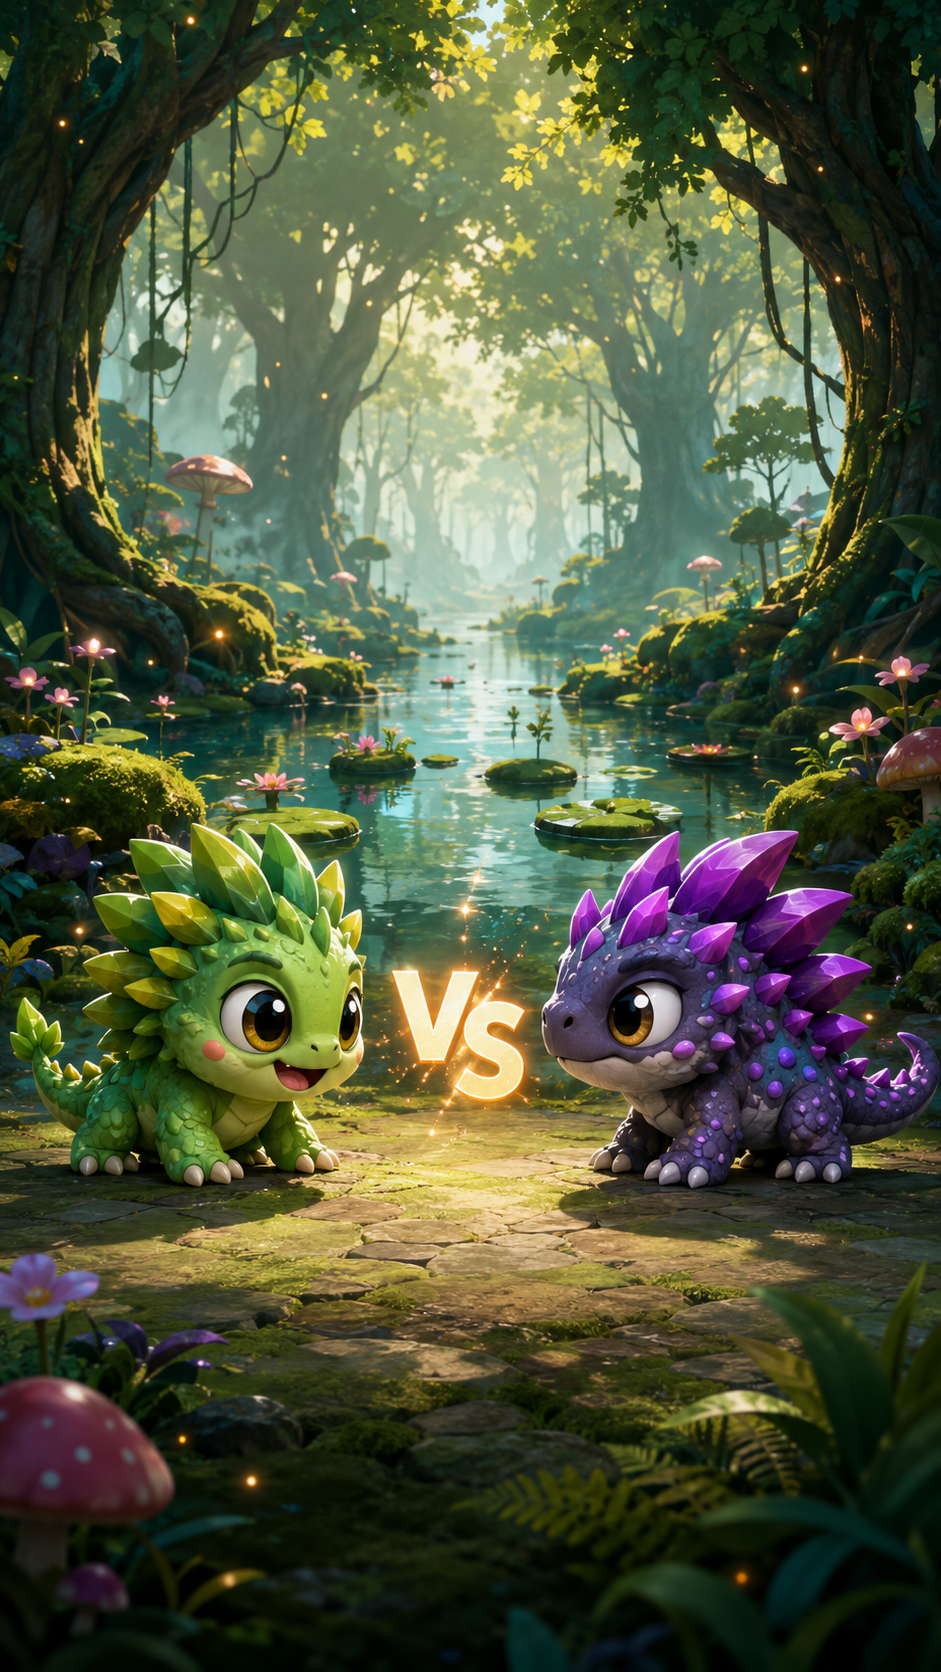
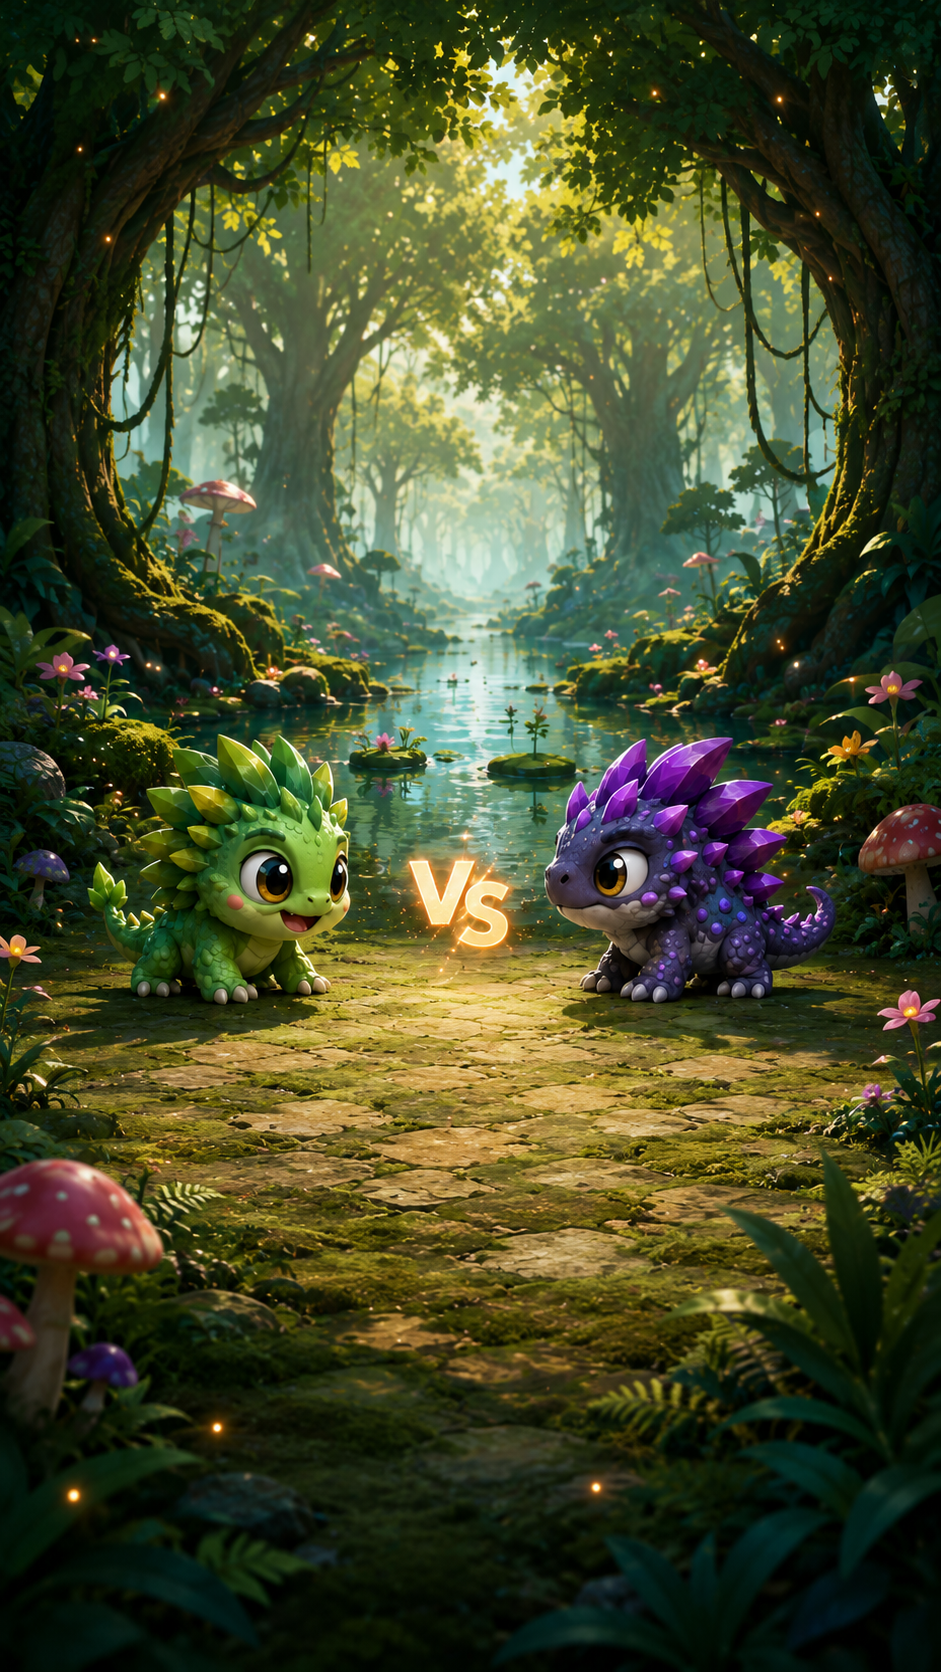
style: enhance GeneSelectionScreenV2 and GeneSelectorPreviewV2 for improved layout and usability

diff --git a/src/components/game-v2/GeneSelectionScreenV2.css b/src/components/game-v2/GeneSelectionScreenV2.css
@@ -193,49 +193,67 @@
   flex: 0 0 auto;
   display: flex;
   flex-direction: column;
-  gap: 7px;
+  gap: 12px;
   margin-inline: auto;
-  padding: 10px 9px calc(env(safe-area-inset-bottom, 0px) + 10px);
-  border: 1px solid rgba(255, 255, 255, 0.5);
-  border-radius: 24px 24px 0 0;
-  background: linear-gradient(180deg, rgba(247, 240, 220, 0.76), rgba(247, 240, 220, 0.9));
+  padding: 0 0 calc(env(safe-area-inset-bottom, 0px) + 10px);
   color: var(--gs-cream-text);
-  box-shadow: 0 -8px 26px rgba(0, 0, 0, 0.24), inset 0 1px 0 #fff;
+}
+
+.gene-selector-panel,
+.action-panel-shell {
+  min-width: 0;
+  border: 1px solid rgba(255, 255, 255, 0.55);
+  border-radius: 24px;
+  background: linear-gradient(180deg, rgba(247, 240, 220, 0.82), rgba(247, 240, 220, 0.94));
+  box-shadow: 0 8px 24px rgba(0, 0, 0, 0.22), inset 0 1px 0 #fff;
   backdrop-filter: blur(3px);
 }
 
+.gene-selector-panel { padding: 10px 9px 8px; }
+.action-panel-shell { padding: 8px; }
+
 /* Gene selector */
-.selector-v2 { min-width: 0; display: flex; flex-direction: column; gap: 7px; }
-.selector-v2-header { min-width: 0; display: flex; align-items: center; justify-content: space-between; gap: 8px; padding: 0 3px; }
+.selector-v2 { min-width: 0; display: flex; flex-direction: column; gap: 6px; }
+.selector-v2-header { min-width: 0; display: flex; align-items: center; justify-content: center; gap: 14px; padding: 0 3px; }
+.selector-v2-header::before, .selector-v2-header::after { content: '❧'; color: #8ab851; font-size: 1.05rem; line-height: 1; }
+.selector-v2-header::after { transform: scaleX(-1); }
 .selector-v2-header strong { min-width: 0; overflow: hidden; color: #3e4033; font-size: 0.78rem; letter-spacing: 0.08em; text-overflow: ellipsis; white-space: nowrap; }
-.selector-v2-header span { min-width: 46px; padding: 4px 8px; border: 1px solid rgba(90, 95, 79, 0.2); border-radius: 999px; background: rgba(255, 255, 255, 0.52); color: var(--gs-cream-muted); font-size: 0.66rem; text-align: center; }
-.selector-v2-carousel { min-width: 0; display: flex; align-items: center; gap: 4px; }
-.selector-v2-arrow { appearance: none; width: 28px; height: 44px; flex: 0 0 28px; display: grid; place-items: center; border: 1px solid rgba(90, 95, 79, 0.3); border-radius: 12px; background: #fff9eb; color: #3e4033; font-size: 1.55rem; line-height: 1; cursor: pointer; }
+.selector-v2-sr-only { position: absolute; width: 1px; height: 1px; padding: 0; margin: -1px; overflow: hidden; clip: rect(0, 0, 0, 0); white-space: nowrap; border: 0; }
+.selector-v2-carousel { min-width: 0; display: flex; align-items: center; gap: 5px; }
+.selector-v2-arrow { appearance: none; width: 30px; height: 52px; flex: 0 0 30px; display: grid; place-items: center; border: 2px solid rgba(255, 255, 255, 0.7); border-radius: 999px; background: linear-gradient(180deg, #55a9ed, #2470bd); color: #fff; font-size: 1.75rem; font-weight: 800; line-height: 1; cursor: pointer; box-shadow: 0 4px 10px rgba(42, 84, 112, 0.25), inset 0 1px 0 rgba(255, 255, 255, 0.65); }
+.selector-v2-arrow--next { background: linear-gradient(180deg, #c47af0, #7b35c5); box-shadow: 0 4px 10px rgba(92, 46, 137, 0.25), inset 0 1px 0 rgba(255, 255, 255, 0.65); }
 .selector-v2-arrow:disabled { opacity: 0.45; cursor: not-allowed; }
 .selector-v2-arrow:active:not(:disabled) { transform: scale(0.95); }
-.selector-v2-rail { min-width: 0; flex: 1 1 auto; display: flex; align-items: stretch; justify-content: center; gap: 5px; overflow: hidden; padding: 4px 0; }
-.selector-v2-card { appearance: none; width: clamp(64px, 21vw, 76px); min-width: 0; min-height: 122px; flex: 0 1 auto; display: flex; flex-direction: column; align-items: center; gap: 3px; padding: 7px 5px; border: 1px solid rgba(90, 95, 79, 0.2); border-radius: 16px; background: linear-gradient(180deg, rgba(255, 253, 245, 0.86), rgba(241, 234, 215, 0.82)); color: #2b2d25; text-align: center; cursor: pointer; opacity: 0.62; transform: scale(0.94); transition: transform 160ms ease, opacity 160ms ease, box-shadow 160ms ease, border-color 160ms ease; }
-.selector-v2-card.is-side { opacity: 0.72; transform: scale(0.91); }
-.selector-v2-card.is-selected { width: clamp(82px, 26vw, 98px); min-height: 132px; opacity: 1; transform: scale(1.02); border-color: rgba(86, 192, 35, 0.78); background: linear-gradient(180deg, rgba(255, 254, 247, 0.92), rgba(237, 248, 217, 0.88)); box-shadow: 0 0 0 2px rgba(111, 216, 35, 0.18), 0 8px 18px rgba(61, 89, 25, 0.2); }
-.selector-v2-card.is-cooldown { border-style: dashed; }
+.selector-v2-rail { min-width: 0; flex: 1 1 auto; display: grid; grid-template-columns: repeat(5, minmax(0, 1fr)); align-items: stretch; gap: 4px; overflow: hidden; padding: 5px 0; }
+.selector-v2-card { appearance: none; width: 100%; min-width: 0; height: 142px; min-height: 142px; display: flex; flex-direction: column; align-items: center; gap: 3px; padding: 7px 3px 6px; border: 1px solid color-mix(in srgb, var(--gene-accent) 34%, #8b866f); border-radius: 15px; background: linear-gradient(180deg, #fffaf0, #eee3c9); color: #2b2d25; text-align: center; cursor: pointer; opacity: 0.78; transform: scale(0.96); transition: transform 160ms ease, opacity 160ms ease, box-shadow 160ms ease, border-color 160ms ease; }
+.selector-v2-card.is-side { opacity: 0.82; transform: scale(0.96); }
+.selector-v2-card.is-selected { opacity: 1; transform: translateY(-3px) scale(1.03); border: 2px solid var(--gene-accent); background: linear-gradient(180deg, color-mix(in srgb, var(--gene-accent) 12%, #fffdf5), color-mix(in srgb, var(--gene-accent) 24%, #f4ecd8)); box-shadow: 0 0 0 2px color-mix(in srgb, var(--gene-accent) 26%, transparent), 0 8px 16px rgba(61, 89, 25, 0.24); }
+.selector-v2-card.is-cooldown { border-style: dashed; filter: saturate(0.65); }
 .selector-v2-card:focus-visible { outline: 2px solid #3dbf8e; outline-offset: 2px; }
-.selector-v2-icon { position: relative; width: 40px; height: 40px; flex: 0 0 auto; overflow: hidden; display: grid; place-items: center; border: 1px solid rgba(90, 95, 79, 0.22); border-radius: 12px; background: rgba(253, 248, 234, 0.76); }
-.selector-v2-card.is-selected .selector-v2-icon { width: 48px; height: 48px; }
+.selector-v2-card--strength { --gene-accent: #e14e2e; }
+.selector-v2-card--resistance { --gene-accent: #2879cf; }
+.selector-v2-card--agility { --gene-accent: #66ba29; }
+.selector-v2-card--perception { --gene-accent: #8845c7; }
+.selector-v2-card--metabolism { --gene-accent: #ec9416; }
+.selector-v2-card--adaptation { --gene-accent: #3c9b8d; }
+.selector-v2-card--grip-claws { --gene-accent: #b76d36; }
+.selector-v2-card--camouflage { --gene-accent: #5e9a4a; }
+.selector-v2-card--webbed-limbs { --gene-accent: #398fc2; }
+.selector-v2-card--fat-reserves { --gene-accent: #d38b39; }
+.selector-v2-icon { position: relative; width: 44px; height: 44px; flex: 0 0 auto; overflow: hidden; display: grid; place-items: center; border: 2px solid color-mix(in srgb, var(--gene-accent) 58%, white); border-radius: 13px; background: color-mix(in srgb, var(--gene-accent) 13%, #fffaf0); }
+.selector-v2-card.is-selected .selector-v2-icon { width: 52px; height: 52px; }
 .selector-v2-icon img { position: absolute; inset: 0; width: 100%; height: 100%; object-fit: contain; }
-.selector-v2-icon span { color: #4d503f; font-size: 0.6rem; letter-spacing: 0.06em; }
-.selector-v2-name { display: -webkit-box; overflow: hidden; max-width: 100%; color: #2b2e22; font-size: 0.7rem; line-height: 1.08; -webkit-box-orient: vertical; -webkit-line-clamp: 2; }
-.selector-v2-card.is-selected .selector-v2-name { font-size: 0.78rem; }
-.selector-v2-level { color: #5d5a4b; font-size: 0.62rem; white-space: nowrap; }
-.selector-v2-affinity, .selector-v2-cooldown { max-width: 100%; overflow: hidden; padding: 2px 6px; border: 1px solid transparent; border-radius: 999px; font-size: 0.54rem; font-weight: 700; text-overflow: ellipsis; white-space: nowrap; }
-.selector-v2-affinity { margin-top: auto; }
-.selector-v2-affinity.is-low, .selector-v2-cooldown { color: #9b4327; background: #ffe7de; border-color: #edac92; }
-.selector-v2-affinity.is-medium { color: #775725; background: #fcf0d4; border-color: #e3c983; }
-.selector-v2-affinity.is-high { color: #256655; background: #def6ea; border-color: #94d9bd; }
-.selector-v2-affinity.is-excellent { color: #2f6e1f; background: #ebf8dc; border-color: #a8df78; }
-.selector-v2-summary { min-width: 0; min-height: 24px; display: flex; flex-direction: column; align-items: center; justify-content: center; gap: 1px; padding: 1px 0; text-align: center; }
-.selector-v2-summary strong, .selector-v2-summary span { display: -webkit-box; overflow: hidden; max-width: 100%; -webkit-box-orient: vertical; -webkit-line-clamp: 2; }
-.selector-v2-summary strong { color: #242520; font-size: 0.78rem; }
-.selector-v2-summary span { color: var(--gs-cream-muted); font-size: 0.62rem; }
+.selector-v2-icon span { color: color-mix(in srgb, var(--gene-accent) 70%, #34372d); font-size: 0.6rem; letter-spacing: 0.06em; }
+.selector-v2-name { display: -webkit-box; overflow: hidden; max-width: 100%; color: #2b2e22; font-size: 0.66rem; line-height: 1.08; -webkit-box-orient: vertical; -webkit-line-clamp: 2; }
+.selector-v2-card.is-selected .selector-v2-name { font-size: 0.74rem; }
+.selector-v2-level { color: #5d5a4b; font-size: 0.61rem; font-weight: 700; white-space: nowrap; }
+.selector-v2-affinity, .selector-v2-cooldown { max-width: 100%; overflow: hidden; padding: 3px 5px; border: 1px solid transparent; border-radius: 999px; font-size: 0.5rem; font-weight: 700; text-overflow: ellipsis; white-space: nowrap; }
+.selector-v2-affinity { margin-top: auto; color: color-mix(in srgb, var(--gene-accent) 78%, #26301d); background: color-mix(in srgb, var(--gene-accent) 20%, #fffaf0); border-color: color-mix(in srgb, var(--gene-accent) 48%, white); }
+.selector-v2-cooldown { color: #9b4327; background: #ffe7de; border-color: #edac92; }
+.selector-v2-dots { min-height: 12px; display: flex; align-items: center; justify-content: center; gap: 6px; }
+.selector-v2-dot { appearance: none; width: 9px; height: 9px; padding: 0; border: 1px solid rgba(93, 108, 67, 0.48); border-radius: 999px; background: rgba(255, 255, 255, 0.72); cursor: pointer; transition: transform 160ms ease, background 160ms ease, border-color 160ms ease; }
+.selector-v2-dot.is-active { width: 12px; height: 12px; border: 2px solid #fff; background: #7acb2c; box-shadow: 0 0 0 1px #6e9e31; transform: scale(1.05); }
+.selector-v2-dot:disabled { cursor: not-allowed; opacity: 0.55; }
 
 /* Actions and states */
 .action-v2-panel { min-width: 0; display: grid; grid-template-columns: repeat(2, minmax(0, 1fr)); gap: 8px; }
@@ -278,15 +296,14 @@
   .event-v2-title { font-size: 0.84rem; }
   .event-v2-description { font-size: 0.64rem; }
   .screen-middle { flex-basis: 112px; min-height: 112px; }
-  .bottom-sheet { gap: 6px; padding-top: 8px; padding-bottom: calc(env(safe-area-inset-bottom, 0px) + 9px); }
+  .bottom-sheet { gap: 10px; padding-top: 4px; padding-bottom: calc(env(safe-area-inset-bottom, 0px) + 9px); }
   .selector-v2 { gap: 4px; }
-  .selector-v2-card { min-height: 108px; padding-block: 6px; }
-  .selector-v2-card.is-selected { min-height: 118px; }
+  .selector-v2-card { height: 128px; min-height: 128px; padding-block: 6px; }
+  .selector-v2-card.is-selected { height: 128px; min-height: 128px; }
   .selector-v2-icon { width: 38px; height: 38px; }
-  .selector-v2-card.is-selected .selector-v2-icon { width: 44px; height: 44px; }
+  .selector-v2-card.is-selected .selector-v2-icon { width: 46px; height: 46px; }
   .selector-v2-name, .selector-v2-card.is-selected .selector-v2-name { font-size: 0.65rem; }
   .selector-v2-affinity, .selector-v2-cooldown { font-size: 0.5rem; }
-  .selector-v2-summary { min-height: 24px; }
   .action-v2-btn { min-height: 54px; }
   .action-v2-btn__label { font-size: 0.84rem; }
   .action-v2-btn__sublabel { font-size: 0.55rem; }
@@ -301,8 +318,7 @@
   .duel-v2-status, .duel-v2-role { font-size: 0.49rem; }
   .duel-v2-vs { width: 29px; height: 29px; font-size: 0.6rem; }
   .selector-v2-arrow { width: 26px; flex-basis: 26px; }
-  .selector-v2-card { width: 62px; }
-  .selector-v2-card.is-selected { width: 82px; }
+  .selector-v2-card { width: 100%; }
 }
 
 @media (min-width: 700px) {

diff --git a/src/components/game-v2/components/GeneSelectorPreviewV2.tsx b/src/components/game-v2/components/GeneSelectorPreviewV2.tsx
@@ -31,6 +31,8 @@ function wrapIndex(index: number, total: number): number {
     return (index + total) % total
 }
 
+const VISIBLE_CARD_OFFSETS = [-2, -1, 0, 1, 2]
+
 function GeneCard({
     gene,
     isSelected,
@@ -48,7 +50,7 @@ function GeneCard({
         <button
             type="button"
             role="option"
-            className={`selector-v2-card ${isSelected ? 'is-selected' : ''} ${isSide ? 'is-side' : ''} ${gene.usable ? '' : 'is-cooldown'}`}
+            className={`selector-v2-card selector-v2-card--${gene.traitType.toLowerCase().replaceAll('_', '-')} ${isSelected ? 'is-selected' : ''} ${isSide ? 'is-side' : ''} ${gene.usable ? '' : 'is-cooldown'}`}
             aria-selected={isSelected}
             onClick={onClick}
             disabled={disabled}
@@ -70,16 +72,14 @@ function GeneCard({
 export function GeneSelectorPreviewV2({ genes, selectedGeneId, onSelectGene, disableSelection = false }: GeneSelectorPreviewV2Props) {
     const total = genes.length
     const selectedIndex = Math.max(0, genes.findIndex((gene) => gene.id === selectedGeneId))
-    const selectedGene = genes[selectedIndex]
 
     if (total === 0) {
         return null
     }
 
-    const prevIndex = wrapIndex(selectedIndex - 1, total)
-    const nextIndex = wrapIndex(selectedIndex + 1, total)
-    const prevGene = genes[prevIndex]
-    const nextGene = genes[nextIndex]
+    const visibleOffsets = total >= VISIBLE_CARD_OFFSETS.length
+        ? VISIBLE_CARD_OFFSETS
+        : Array.from({ length: total }, (_, index) => index - selectedIndex)
 
     function selectByOffset(offset: number) {
         if (disableSelection) {
@@ -94,11 +94,19 @@ export function GeneSelectorPreviewV2({ genes, selectedGeneId, onSelectGene, dis
         }
     }
 
+    function selectByIndex(index: number) {
+        if (disableSelection || index === selectedIndex) {
+            return
+        }
+
+        onSelectGene(genes[index].id)
+    }
+
     return (
         <section className="selector-v2" aria-label="Selettore geni">
             <div className="selector-v2-header">
                 <strong>SCEGLI UN GENE</strong>
-                <span>{selectedIndex + 1}/{total}</span>
+                <span className="selector-v2-sr-only">Gene {selectedIndex + 1} di {total}</span>
             </div>
 
             <div className="selector-v2-carousel" role="listbox" aria-label="Card geni">
@@ -113,35 +121,21 @@ export function GeneSelectorPreviewV2({ genes, selectedGeneId, onSelectGene, dis
                 </button>
 
                 <div className="selector-v2-rail">
-                    {prevGene ? (
-                        <GeneCard
-                            gene={prevGene}
-                            isSelected={false}
-                            isSide
-                            disabled={disableSelection}
-                            onClick={() => !disableSelection && onSelectGene(prevGene.id)}
-                        />
-                    ) : null}
+                    {visibleOffsets.map((offset) => {
+                        const geneIndex = wrapIndex(selectedIndex + offset, total)
+                        const gene = genes[geneIndex]
 
-                    {selectedGene ? (
-                        <GeneCard
-                            gene={selectedGene}
-                            isSelected
-                            isSide={false}
-                            disabled={disableSelection}
-                            onClick={() => { }}
-                        />
-                    ) : null}
-
-                    {nextGene ? (
-                        <GeneCard
-                            gene={nextGene}
-                            isSelected={false}
-                            isSide
-                            disabled={disableSelection}
-                            onClick={() => !disableSelection && onSelectGene(nextGene.id)}
-                        />
-                    ) : null}
+                        return (
+                            <GeneCard
+                                key={`${gene.id}-${offset}`}
+                                gene={gene}
+                                isSelected={offset === 0}
+                                isSide={offset !== 0}
+                                disabled={disableSelection}
+                                onClick={() => selectByIndex(geneIndex)}
+                            />
+                        )
+                    })}
                 </div>
 
                 <button
@@ -155,16 +149,20 @@ export function GeneSelectorPreviewV2({ genes, selectedGeneId, onSelectGene, dis
                 </button>
             </div>
 
-            {selectedGene ? (
-                <div className="selector-v2-summary" aria-live="polite">
-                    <strong>{selectedGene.name} · Lv. {selectedGene.level}</strong>
-                    <span>
-                        {affinityLabel(selectedGene.affinity)}
-                        {' · '}
-                        {selectedGene.usable ? 'USA disponibile' : selectedGene.disabledReason ?? 'USA non disponibile'}
-                    </span>
-                </div>
-            ) : null}
+            <div className="selector-v2-dots" role="tablist" aria-label="Posizione nel selettore geni">
+                {genes.map((gene, index) => (
+                    <button
+                        key={gene.id}
+                        type="button"
+                        role="tab"
+                        aria-selected={index === selectedIndex}
+                        aria-label={`Seleziona ${gene.name}`}
+                        className={`selector-v2-dot ${index === selectedIndex ? 'is-active' : ''}`}
+                        onClick={() => selectByIndex(index)}
+                        disabled={disableSelection}
+                    />
+                ))}
+            </div>
         </section>
     )
 }

diff --git a/src/components/game-v2/GeneSelectionScreenV2.tsx b/src/components/game-v2/GeneSelectionScreenV2.tsx
@@ -117,12 +117,14 @@ export function GeneSelectionScreenV2({ viewModel, onSelectGene, onUseGene, onEv
 
                         <div className="bottom-sheet">
                             {viewModel.genes.length > 0 ? (
-                                <GeneSelectorPreviewV2
-                                    genes={viewModel.genes}
-                                    selectedGeneId={selectedGeneId}
-                                    onSelectGene={onSelectGene}
-                                    disableSelection={!isChoosing}
-                                />
+                                <div className="gene-selector-panel">
+                                    <GeneSelectorPreviewV2
+                                        genes={viewModel.genes}
+                                        selectedGeneId={selectedGeneId}
+                                        onSelectGene={onSelectGene}
+                                        disableSelection={!isChoosing}
+                                    />
+                                </div>
                             ) : null}
 
                             {viewModel.status === 'error' && viewModel.errorMessage ? (
@@ -132,19 +134,21 @@ export function GeneSelectionScreenV2({ viewModel, onSelectGene, onUseGene, onEv
                                 </section>
                             ) : null}
 
-                            {isWaiting && viewModel.waitingState ? (
-                                <WaitingStateV2 waitingState={viewModel.waitingState} />
-                            ) : (
-                                <ActionPanelV2
-                                    selectedAction={viewModel.selectedAction}
-                                    selectedGeneName={viewModel.selectedGene?.name ?? null}
-                                    canUse={viewModel.canUse}
-                                    canEvolve={viewModel.canEvolve}
-                                    isSubmitting={viewModel.status === 'submitting'}
-                                    onUseAction={onUseGene}
-                                    onEvolveAction={onEvolveGene}
-                                />
-                            )}
+                            <div className="action-panel-shell">
+                                {isWaiting && viewModel.waitingState ? (
+                                    <WaitingStateV2 waitingState={viewModel.waitingState} />
+                                ) : (
+                                    <ActionPanelV2
+                                        selectedAction={viewModel.selectedAction}
+                                        selectedGeneName={viewModel.selectedGene?.name ?? null}
+                                        canUse={viewModel.canUse}
+                                        canEvolve={viewModel.canEvolve}
+                                        isSubmitting={viewModel.status === 'submitting'}
+                                        onUseAction={onUseGene}
+                                        onEvolveAction={onEvolveGene}
+                                    />
+                                )}
+                            </div>
                         </div>
                     </>
                 ) : null}
